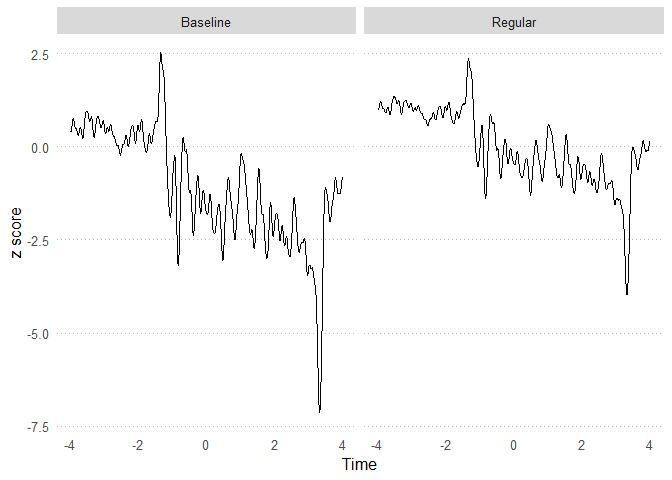
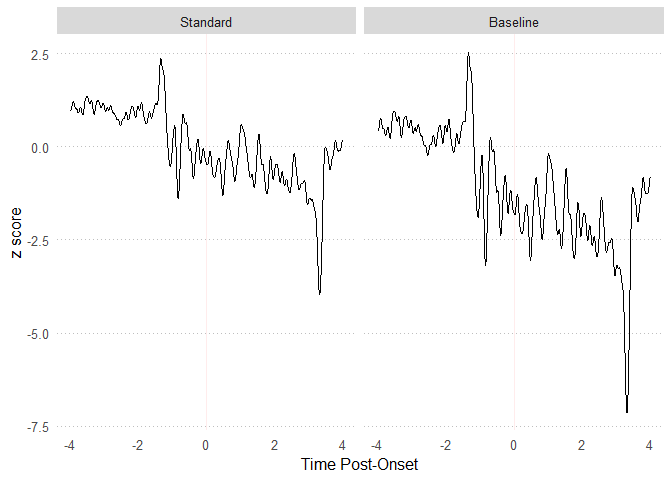
Updates and additions

diff --git a/fluoR_user_guide.md b/fluoR_user_guide.md
@@ -41,6 +41,8 @@ returned data frame will look like.
 
 ![asdf](./external_figures/fluoR_format_table_example.png)
 
+-----
+
 ## Step 2: Standardize your data
 
 There are many reasons to standardize your data before exploring your
@@ -48,11 +50,12 @@ data.
 
 <b><u> 1. Signal differs between subjects </b></u>
 
-  - Biology
+  - Regardless of the specific technologies used, there is almost always
+    differences in signal strength for each subject
 
 <b><u> 2. Signal differs between trials </b></u>
 
-  - The strength of recording signal tends to <i>decay</i> over time
+  - The strength of recording signal tends to decay over time
 
 <b><u> 3. Utilizing baseline values </b></u>
 
@@ -65,18 +68,26 @@ data.
     using standardization methods (particularly z-scores) also takes
     baseline <i>deviations</i> into consideration.
 
+### Methods of Standardization
+
 A little alteration in how we compute z-scores can make a large
 difference.
 
-### z-scores
+#### z-scores
 
 Consider the traditional z-score computation. This centers every value
 (x) at the mean of the full time series (mu) and divides it by the
 standard deviation of the full time series (sigma).
 
 <!-- 
-$$Z = \frac{x-\mu}{\sigma}$$ 
-Formula is for z-score
+\begin{gather*}
+  Baseline \ Z_{i} = \frac{x_{i}-\mu}{\sigma}
+\end{gather*}
+\begin{align*}
+  \text{where...} \\
+  \mu &= \text{mean of full sample,} \\
+  \sigma &= \text{standard deviation of full sample} \\
+\end{align*}
 -->
 
 ![](./external_figures/equations/z_score.png)
@@ -84,7 +95,7 @@ Formula is for z-score
 This results in the same time series in terms of standard deviations
 from the mean, all in the context of the full time series.
 
-### baseline z-scores
+#### baseline z-scores
 
 Using the baseline period as the input values for computing z-scores can
 be useful in revealing differences from baseline that you may not find
@@ -94,13 +105,17 @@ you can see from the formula, a lower standard deviation will increase
 the upper values - thus making changes in neural activity more apparent.
 
 <!--
-$$Z = \frac{x-\mu_{baseline}}{\sigma_{baseline}}$$
-Formula is for baseline z-scores
+\begin{gather*}
+  Baseline Z_{i} = \frac{x_{i}-\mu_{baseline}}{\sigma_{baseline}}
+\end{gather*}
+\begin{align*}
+  \text{where...} \\
+  \mu_{baseline} &= \text{mean of values from baseline period,} \\
+  \sigma_{baseline} &= \text{standard deviation of values from baseline period} \\
+\end{align*}
 -->
 
 ![](./external_figures/equations/z_score_baseline.png)
-
-\*\*\* Faceted graph of regular values vs z-scores \*\*\*
 
 This results in a time series interpreted in terms of standard
 deviations and mean during the baseline period. Baseline z-scores are
@@ -110,6 +125,28 @@ outside of the baseline period will be different using this version, but
 not within the baseline period.
 
 ![](fluoR_user_guide_files/figure-gfm/unnamed-chunk-5-1.png)<!-- -->
+
+#### modified z scores
+
+Waveform data fluctuates naturally. In the event of a change in activity
+due to external stimuli, signal variation tends to rapidly increase
+and/or decrease. Unless you are at a baseline period, the data is likely
+not normally-distributed.
+
+<!--
+\begin{gather*}
+  Modified \ Z_{i} = \frac{0.6745(x_{i}-\widetilde{x})}{MAD}
+\end{gather*}
+\begin{align*}
+  \text{where...} \\
+  \widetilde{x} &= \text{sample median,} \\
+  MAD &= \text{median absolute deviation}
+\end{align*}
+-->
+
+![](./external_figures/equations/z_score_modified.png)
+
+![](fluoR_user_guide_files/figure-gfm/unnamed-chunk-8-1.png)<!-- -->
 
 <!--
 ## Step 3: Explore your data

diff --git a/README.md b/README.md
@@ -41,6 +41,8 @@ returned data frame will look like.
 
 ![asdf](./external_figures/fluoR_format_table_example.png)
 
+-----
+
 ## Step 2: Standardize your data
 
 There are many reasons to standardize your data before exploring your
@@ -48,11 +50,12 @@ data.
 
 <b><u> 1. Signal differs between subjects </b></u>
 
-  - Biology
+  - Regardless of the specific technologies used, there is almost always
+    differences in signal strength for each subject
 
 <b><u> 2. Signal differs between trials </b></u>
 
-  - The strength of recording signal tends to <i>decay</i> over time
+  - The strength of recording signal tends to decay over time
 
 <b><u> 3. Utilizing baseline values </b></u>
 
@@ -65,18 +68,26 @@ data.
     using standardization methods (particularly z-scores) also takes
     baseline <i>deviations</i> into consideration.
 
+### Methods of Standardization
+
 A little alteration in how we compute z-scores can make a large
 difference.
 
-### z-scores
+#### z-scores
 
 Consider the traditional z-score computation. This centers every value
 (x) at the mean of the full time series (mu) and divides it by the
 standard deviation of the full time series (sigma).
 
 <!-- 
-$$Z = \frac{x-\mu}{\sigma}$$ 
-Formula is for z-score
+\begin{gather*}
+  Baseline \ Z_{i} = \frac{x_{i}-\mu}{\sigma}
+\end{gather*}
+\begin{align*}
+  \text{where...} \\
+  \mu &= \text{mean of full sample,} \\
+  \sigma &= \text{standard deviation of full sample} \\
+\end{align*}
 -->
 
 ![](./external_figures/equations/z_score.png)
@@ -84,7 +95,7 @@ Formula is for z-score
 This results in the same time series in terms of standard deviations
 from the mean, all in the context of the full time series.
 
-### baseline z-scores
+#### baseline z-scores
 
 Using the baseline period as the input values for computing z-scores can
 be useful in revealing differences from baseline that you may not find
@@ -94,8 +105,14 @@ you can see from the formula, a lower standard deviation will increase
 the upper values - thus making changes in neural activity more apparent.
 
 <!--
-$$Z = \frac{x-\mu_{baseline}}{\sigma_{baseline}}$$
-Formula is for baseline z-scores
+\begin{gather*}
+  Baseline Z_{i} = \frac{x_{i}-\mu_{baseline}}{\sigma_{baseline}}
+\end{gather*}
+\begin{align*}
+  \text{where...} \\
+  \mu_{baseline} &= \text{mean of values from baseline period,} \\
+  \sigma_{baseline} &= \text{standard deviation of values from baseline period} \\
+\end{align*}
 -->
 
 ![](./external_figures/equations/z_score_baseline.png)
@@ -108,6 +125,28 @@ outside of the baseline period will be different using this version, but
 not within the baseline period.
 
 ![](README_files/figure-gfm/unnamed-chunk-5-1.png)<!-- -->
+
+#### modified z scores
+
+Waveform data fluctuates naturally. In the event of a change in activity
+due to external stimuli, signal variation tends to rapidly increase
+and/or decrease. Unless you are at a baseline period, the data is likely
+not normally-distributed.
+
+<!--
+\begin{gather*}
+  Modified \ Z_{i} = \frac{0.6745(x_{i}-\widetilde{x})}{MAD}
+\end{gather*}
+\begin{align*}
+  \text{where...} \\
+  \widetilde{x} &= \text{sample median,} \\
+  MAD &= \text{median absolute deviation}
+\end{align*}
+-->
+
+![](./external_figures/equations/z_score_modified.png)
+
+![](README_files/figure-gfm/unnamed-chunk-8-1.png)<!-- -->
 
 <!--
 ## Step 3: Explore your data
